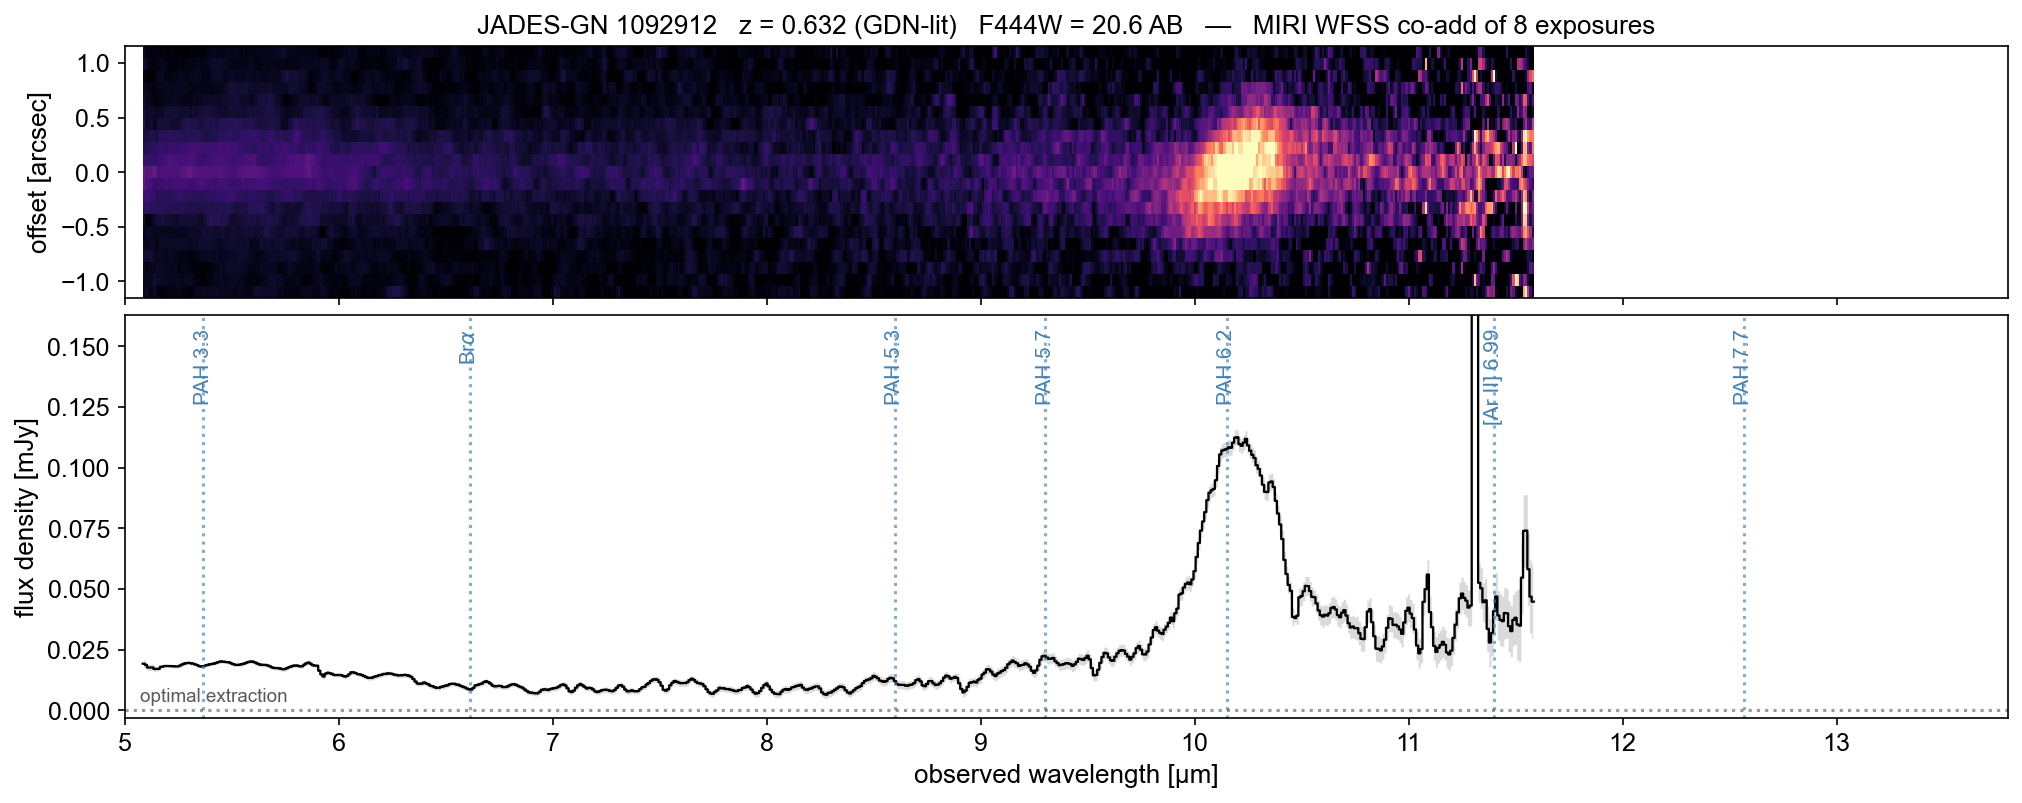
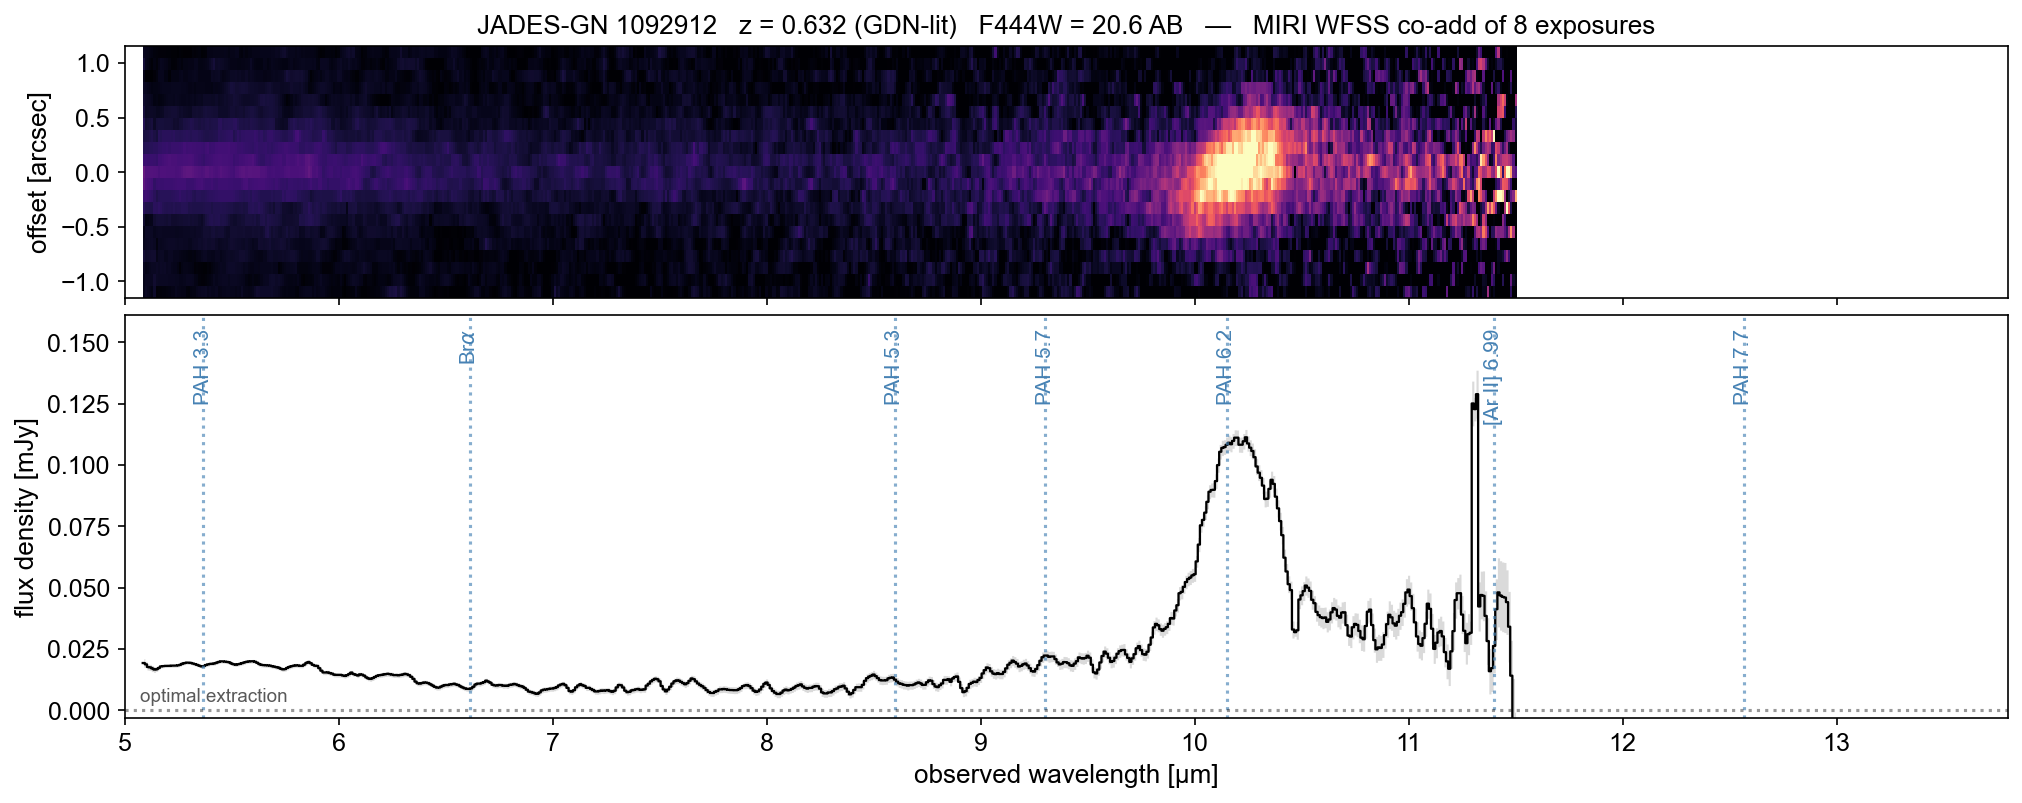
Background subtraction v5: update reference files and notebook
Reference files (sha256-verified against the refreshed release manifest):
- master_sky_P750L_v5.fits: consensus-patched sky + ADDITIVE defect map
  (+ REGION/PATCHED extensions), replaces v3
- eigen_skies_v5_P750L.fits: outlier-patched 20-component PCA basis

Notebook lv1.5 step now matches the updated main-task pipeline:
- subtract the additive defect map unscaled after flat-fielding
  (9,620 px corrected; |ADDITIVE|>0.5 DN/s flagged DO_NOT_USE)
- per-row sigma-clipped median removal in the WFSS region (EMI
  de-banding; median |offset| 0.13 DN/s in the example data)
Re-executed end-to-end; spectra agree with the atlas at the same level
as before (median flux ratio 1.05 +- 0.06).

diff --git a/data/cal_v1.0/README.md b/data/cal_v1.0/README.md
@@ -1,9 +1,10 @@
 # MIRI WFSS (P750L) Calibration Suite — MIRI_WFSS_CAL_v1.0
 
-Release date: 2026-06-10.  Built from 5 archival JWST programs with FULL-array
-P750L exposures: GO-3224 (McKinney), GO-4192 (Alberts/SMILES), GO-4762
-(Fujimoto) in GOODS-N; GO-8544 (Helton) in GOODS-S; CAL-9505 (Petric, LMC,
-true MIR_WFSS) and CAL-9265 (Petric, HD 163466 CALSPEC standard).
+Release date: 2026-06-10 (background refreshed to sky v5 on 2026-06-11).
+Built from 5 archival JWST programs with FULL-array P750L exposures: GO-3224
+(McKinney), GO-4192 (Alberts/SMILES), GO-4762 (Fujimoto) in GOODS-N; GO-8544
+(Helton) in GOODS-S; CAL-9505 (Petric, LMC, true MIR_WFSS) and CAL-9265
+(Petric, HD 163466 CALSPEC standard).
 
 This directory is the repository copy of the v1.0 release (flattened layout,
 without the example-spectrum products and the summary deck).  SHA-256 hashes
@@ -22,8 +23,8 @@ region is x = 387-1020, y = 15-1017 (`region_mask_P750L.fits`).
 | File | Content |
 |---|---|
 | `flat_P750L_F560W.fits`         | flat field (F560W imaging flat) |
-| `master_sky_P750L_v3.fits`      | master sky, scale per frame and subtract |
-| `eigen_skies_v3_P750L.fits`     | optional PCA sky residual components (mode B) |
+| `master_sky_P750L_v5.fits`      | master sky (consensus-patched) + ADDITIVE defect map |
+| `eigen_skies_v5_P750L.fits`     | optional PCA sky residual components (outlier-patched, mode B) |
 | `region_mask_P750L.fits`        | WFSS illuminated-region mask |
 | `DISP_LRS_WFSS_v2.1.dat`        | trace: dx(x0, y0, dy), 30 coefficients |
 | `DISPL_LRS_WFSS_P750L_v2.1.dat` | wavelength: dy(x0, y0, lambda), 16 coefficients |
@@ -36,7 +37,18 @@ region is x = 387-1020, y = 15-1017 (`region_mask_P750L.fits`).
 ## Usage (per source at direct-image position x0, y0)
 
 1. Calibrate the rate frame: divide by the flat, subtract the scaled master
-   sky (mode A; optionally fit the PCA components, mode B).
+   sky (mode A; optionally fit the PCA components, mode B), then remove a
+   sigma-clipped median from every detector row of the residual (computed
+   over source-masked WFSS pixels) to suppress EMI banding and row-wise
+   gradients. Use `master_sky_P750L_v5.fits`; before the scale fit, subtract
+   its ADDITIVE extension from the flat-fielded frame unscaled (it maps
+   additive detector defects in DN/s, derived from a 304-frame
+   consensus-residual regression) and treat |ADDITIVE| > 0.5 DN/s pixels as
+   DO_NOT_USE. The mode-B PCA components (`eigen_skies_v5`) are
+   outlier-patched against an along-row running median so that compact
+   imprints of imperfectly masked sources cannot be stamped into corrected
+   frames; if you use mode B, difference the result against its mode-A
+   counterpart before trusting compact faint sources.
 2. Trace: dx_s(x0, y0, dy_s) from `DISP_LRS_WFSS_v2.1.dat`
    (polynomial form `fit_disp_order23`; x, y offset by -1024 internally).
 3. Wavelength per row: invert dy_s(x0, y0, lambda) from

diff --git a/README.md b/README.md
@@ -4,7 +4,7 @@ JWST MIRI prism (P750L) wide-field slitless spectroscopy — calibration referen
 
 When the MIRI LRS prism is used without the slit on the FULL imager array, every source in the illuminated field produces a dispersed mid-infrared spectrum (4.7–13.8 µm) — wide-field slitless spectroscopy (WFSS). Several archival JWST programs observed this way, but there is no STScI pipeline support for extracting these data. This repository provides both the calibration and a complete, worked extraction path:
 
-- **`data/cal_v1.0/`** — the `MIRI_WFSS_CAL_v1.0` calibration suite: flat field, master sky (+ optional PCA components), WFSS region mask, trace and wavelength polynomial tables (v2.1), absolute response R(λ) (v2, CALSPEC-anchored), and L-flat, with a SHA-256 manifest. See `data/cal_v1.0/README.md` for the calibration model and file details.
+- **`data/cal_v1.0/`** — the `MIRI_WFSS_CAL_v1.0` calibration suite: flat field, master sky v5 (consensus-patched, with an additive detector-defect map and optional PCA components), WFSS region mask, trace and wavelength polynomial tables (v2.1), absolute response R(λ) (v2, CALSPEC-anchored), and L-flat, with a SHA-256 manifest. See `data/cal_v1.0/README.md` for the calibration model and file details.
 - **`MIRI_WFSS_extraction_example_FSun.ipynb`** — one self-contained notebook that turns public MIRI P750L FULL `rate` files into flux-calibrated 2D + 1D spectra: flat + sky calibration, WCS attachment, trace rectification, flux calibration, PA-grouped sigma-clipped co-addition, and boxcar/optimal 1D extraction. Committed with executed outputs so you can read the full worked example without running anything.
 - **`download_goodsn_example_rates.sh`** — fetches the example dataset (GO-4192/SMILES, GOODS-N: 8 × 364 s P750L exposures, ~170 MB) directly from MAST.
 - **`data/catalogs/goodsn_example_sources.csv`** — the 9 galaxies with literature spectroscopic redshifts covered by the example exposures.
@@ -40,7 +40,7 @@ and the first run downloads a few MIRI imaging reference files (~100 MB) into th
 | 0 | setup: paths, CRDS, detector constants |
 | 1 | download/inventory the example GO-4192 rate files |
 | 2 | inspect a raw P750L FULL frame (sky-dominated, WFSS region) |
-| 3 | rate → "lv1.5": flat-field + scaled master-sky subtraction (mode A; optional PCA mode B) |
+| 3 | rate → "lv1.5": flat-field + additive defect map + scaled master-sky subtraction + per-row de-banding (mode A; optional PCA mode B) |
 | 4 | attach a celestial WCS (`jwst` `AssignWcsStep` in imaging mode) and write lv1.5 files |
 | 5 | load the source catalog; footprint coverage check |
 | 6 | rectify a dispersed trace (v2.1 trace + wavelength polynomials, DQ masking, local background) |
@@ -76,5 +76,6 @@ Full derivation, validation, and the GOODS-N/GOODS-S/LMC spectral atlas: Sun (20
 The example data are from JWST program GO-4192 (PI: S. Alberts; SMILES). The calibration suite is built from public exposures of GO-3224 (PI: J. McKinney), GO-4192, GO-4762 (PI: S. Fujimoto), GO-8544 (PI: J. Helton), CAL-9505 and CAL-9265 (PI: A. Petric), obtained from the [Mikulski Archive for Space Telescopes](https://mast.stsci.edu) (MAST) at the Space Telescope Science Institute. Source coordinates, F444W photometry, and redshift compilations draw on the JADES GOODS-N data release ([Eisenstein et al. 2023](https://ui.adsabs.harvard.edu/abs/2023arXiv231012340E/abstract)) and literature spectroscopic surveys of GOODS-N.
 
 #### v1.0 (2026.06.11):
-- Initial public release: `MIRI_WFSS_CAL_v1.0` calibration suite (trace/wavecal v2.1, fluxcal v2, flat/sky v3), extraction example notebook on GO-4192 GOODS-N data, example source catalog, MAST download script.
+- Initial public release: `MIRI_WFSS_CAL_v1.0` calibration suite (trace/wavecal v2.1, fluxcal v2, flat v3, sky v5), extraction example notebook on GO-4192 GOODS-N data, example source catalog, MAST download script.
+- 2026.06.11 background refresh (sky v5): consensus-patched master sky with an additive detector-defect map (subtracted unscaled; defect pixels DQ-flagged) and per-row sigma-clipped de-banding in the lv1.5 step; outlier-patched PCA basis for mode B.
 - A Zenodo DOI and the full 182-source GOODS spectral atlas will be linked here with the paper.